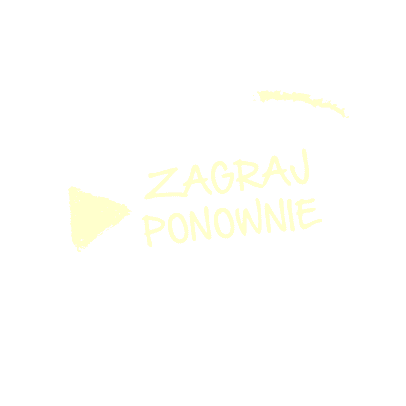
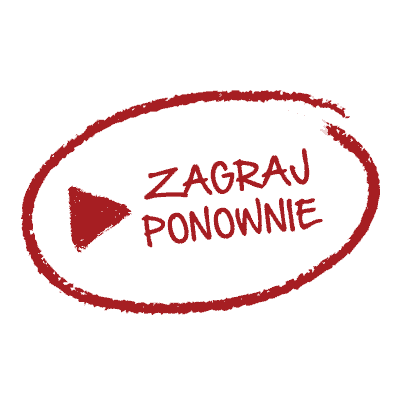
Added playAgainBtn new graphics

Changed region(s): [[0.0296, 0.2069, 0.9458, 0.798], [0.3547, 0.3547, 0.798, 0.6207], [0.1478, 0.4433, 0.3251, 0.6207]]

diff --git a/sketch.js b/sketch.js
@@ -191,7 +191,15 @@ function instructionView(){
 
 function endView(){
   image(floorImg, 0, canvasHeight-canvasWidth/9, canvasWidth, canvasWidth/9);
-  image(endImg, 0,0, canvasWidth, canvasHeight);
+  var w,h;
+  if(canvasWidth>canvasHeight){
+    w=canvasHeight*1.6;
+    h=canvasHeight;
+  }else{
+    w=canvasWidth;
+    h=canvasWidth/1.6;
+  }
+  image(endImg, 0,0, w, h);
   textAlign(CENTER, CENTER);
   fill(167, 24, 20);
   textSize(canvasWidth/19);
@@ -440,7 +448,7 @@ class GifBtn {
     this.width = w;
     this.height = h;
 
-    if(this.over()) {
+    if(this.over() || this.isPlaying) {
       if(!this.isDone)
         this.play();
       this.isDone = true;
